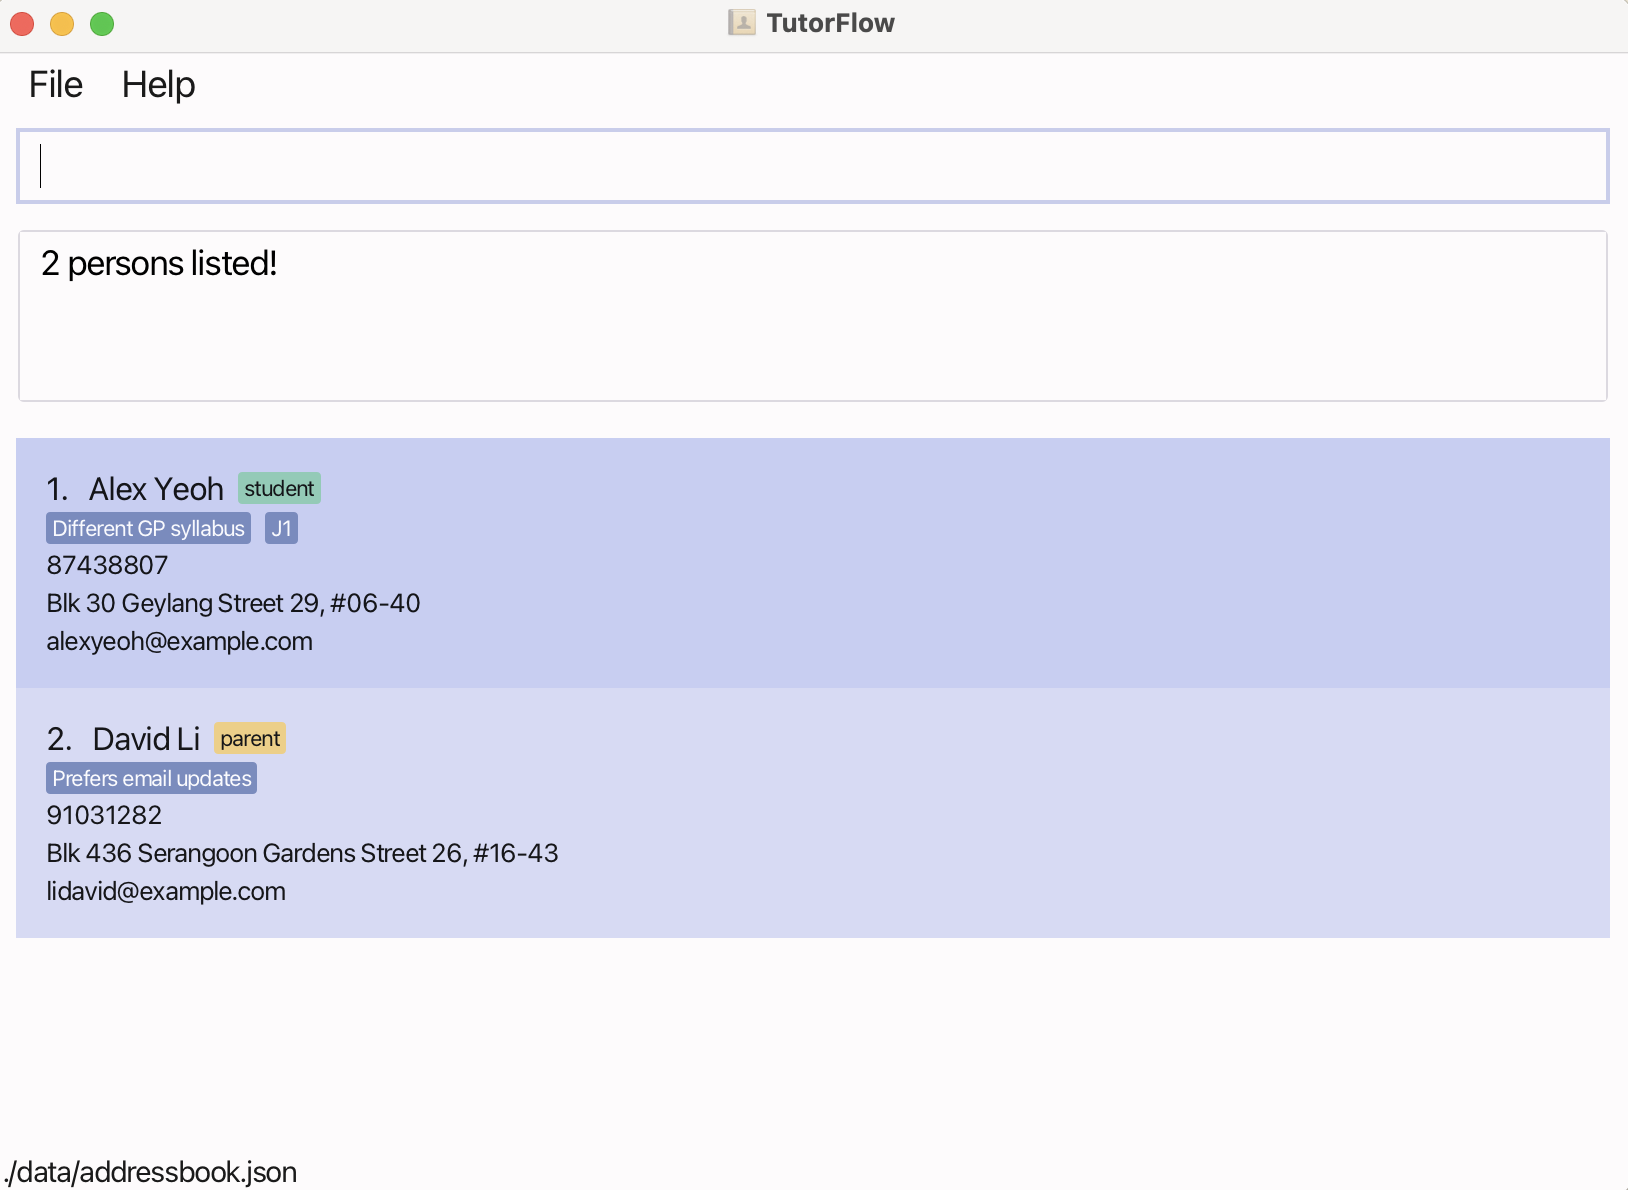
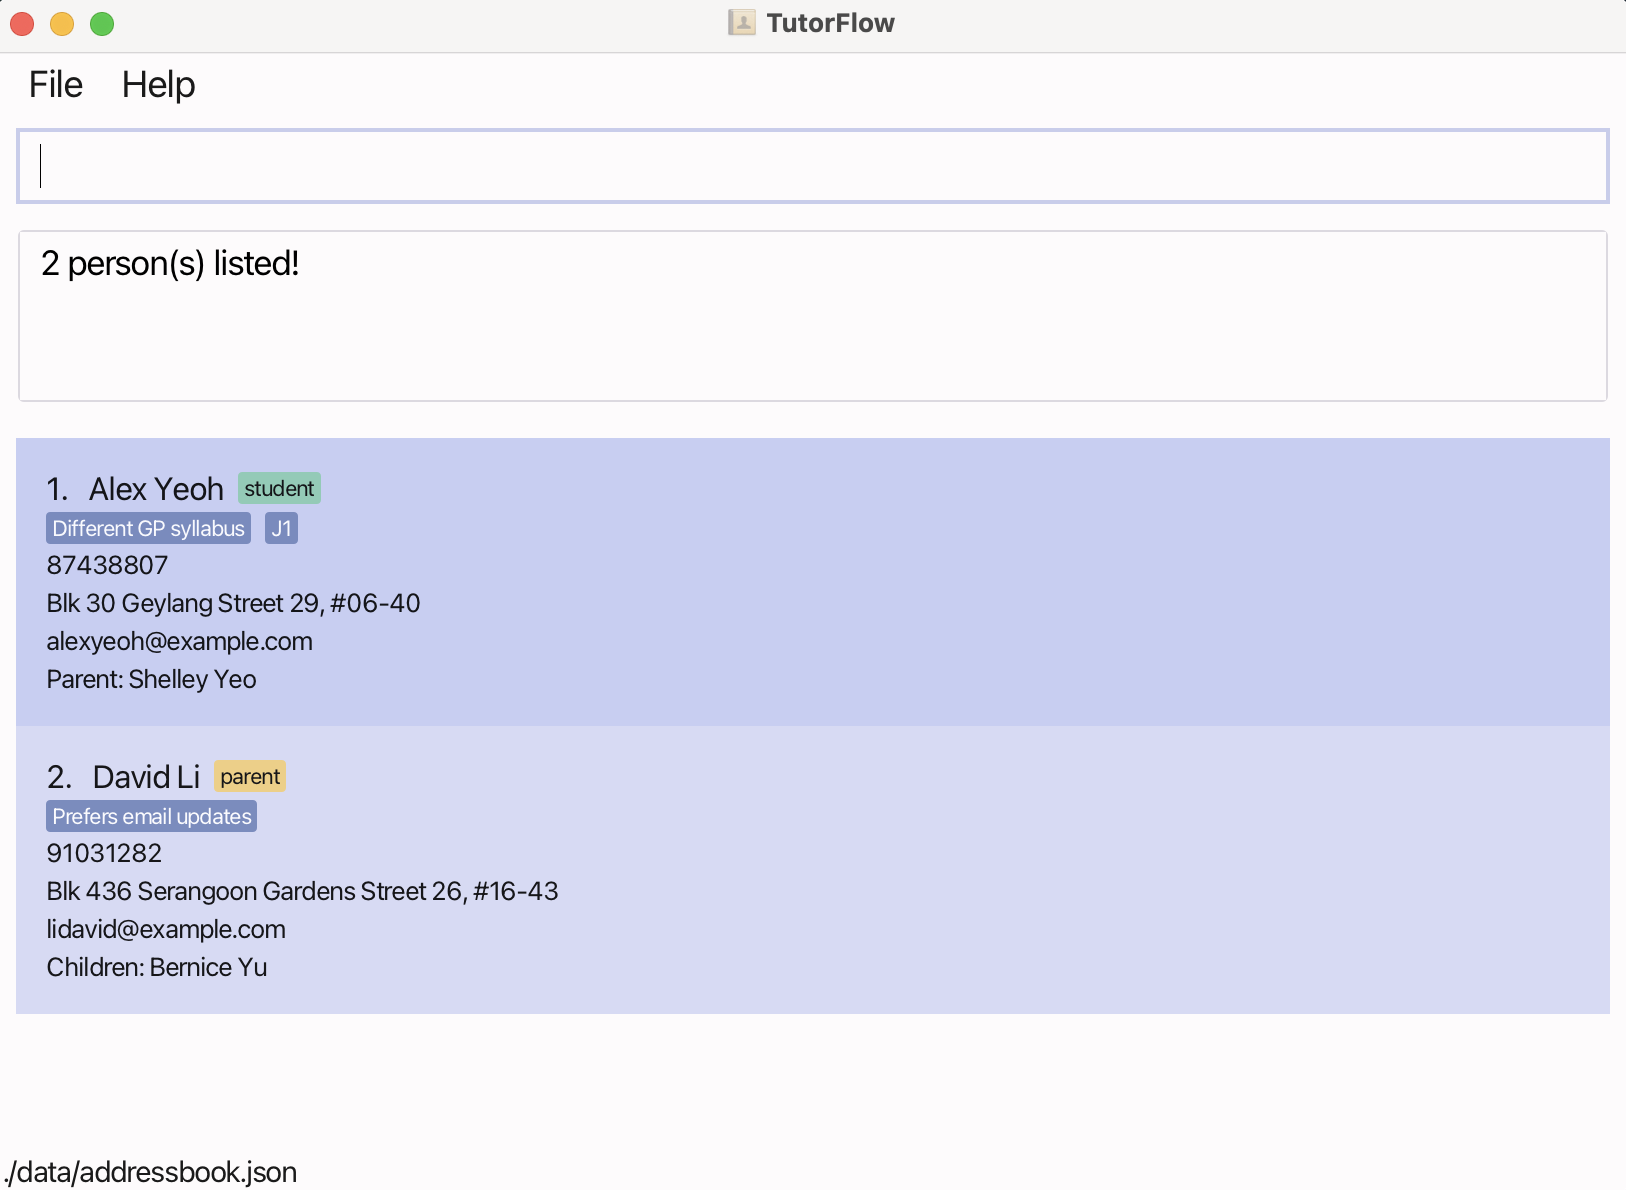
Modify minor GUI display messages for consistency

diff --git a/src/main/java/seedu/address/logic/ClassQueries.java b/src/main/java/seedu/address/logic/ClassQueries.java
@@ -1,16 +1,36 @@
 package seedu.address.logic;
 
-import seedu.address.model.Model;
-import seedu.address.model.person.*;
-import seedu.address.model.tuitionclass.*;
-
 import java.util.Comparator;
 import java.util.List;
 import java.util.Optional;
 
+import seedu.address.model.Model;
+import seedu.address.model.person.Name;
+import seedu.address.model.person.Student;
+import seedu.address.model.person.Tutor;
+import seedu.address.model.tuitionclass.TuitionClass;
+
+/**
+ * Utility class providing helper methods to query tutors, classes, and students
+ * from the model without duplicating logic across commands.
+ *
+ * <p>All methods are static and side-effect free — they do not modify the {@code Model}
+ * or its data. Instead, they perform read-only lookups on persons and tuition classes
+ * for use in higher-level commands such as {@code GetClassesCommand},
+ * {@code GetClassDetailsCommand}, and {@code GetStudentsCommand}.</p>
+ *
+ * <p>This class is intentionally non-instantiable.</p>
+ */
 public final class ClassQueries {
     private ClassQueries() {}
 
+    /**
+     * Finds the first tutor in the model with the given name.
+     *
+     * @param model The model containing all persons.
+     * @param name The name of the tutor to search for.
+     * @return An {@code Optional<Tutor>} containing the tutor if found, or an empty {@code Optional} otherwise.
+     */
     public static Optional<Tutor> findTutorByName(Model model, Name name) {
         return model.getAddressBook().getPersonList().stream()
                 .filter(p -> p instanceof Tutor)
@@ -19,12 +39,26 @@ public final class ClassQueries {
                 .findFirst();
     }
 
+    /**
+     * Retrieves all tuition classes taught by a specific tutor.
+     *
+     * @param model The model containing all tuition classes.
+     * @param tutor The tutor whose classes are to be retrieved.
+     * @return A list of {@code TuitionClass} objects associated with the given tutor.
+     */
     public static List<TuitionClass> getClassesByTutor(Model model, Tutor tutor) {
         return model.getTuitionClassList().stream()
                 .filter(tuitionClass -> tutor.getId().equals(tuitionClass.getTutorId()))
                 .toList();
     }
 
+    /**
+     * Retrieves all students enrolled in a given tuition class, sorted alphabetically by name.
+     *
+     * @param model The model containing all persons.
+     * @param tuitionClass The class whose students are to be retrieved.
+     * @return A list of {@code Student} objects enrolled in the specified class.
+     */
     public static List<Student> getStudentsInClass(Model model, TuitionClass tuitionClass) {
         return model.getAddressBook().getPersonList().stream()
                 .filter(t -> tuitionClass.getStudentIds().contains(t.getId()))

diff --git a/src/main/java/seedu/address/logic/commands/LinkClassCommand.java b/src/main/java/seedu/address/logic/commands/LinkClassCommand.java
@@ -42,6 +42,8 @@ public class LinkClassCommand extends Command {
     public static final String MESSAGE_PERSON_NOT_STUDENT_OR_TUTOR = "The person provided is not a student or a tutor.";
     public static final String MESSAGE_STUDENT_ALREADY_LINKED = "The student is already linked to a class.";
     public static final String MESSAGE_TUTOR_ALREADY_TEACHING = "The tutor is already assigned to this class.";
+    public static final String MESSAGE_CLASS_ALREADY_HAS_TUTOR =
+            "This class is already assigned to Tutor %s. Unlink before reassigning.";
 
     private final Day day;
     private final Time time;
@@ -101,8 +103,9 @@ public class LinkClassCommand extends Command {
         tuitionClass.addStudentId(student.getId());
         model.setPerson(student, student);
 
+        String timeString = tuitionClass.getTime().toString().substring(1) + "00";
         return new CommandResult(String.format(MESSAGE_LINK_STUDENT_SUCCESS,
-                Messages.format(student), tuitionClass.getDay(), tuitionClass.getTime()));
+                student.getName(), tuitionClass.getDay(), timeString));
     }
 
     /**
@@ -113,14 +116,25 @@ public class LinkClassCommand extends Command {
         PersonId currentTutorId = tuitionClass.getTutorId();
 
         // Check if the current tutor is not null AND if its ID matches the new tutor's ID.
-        if (currentTutorId != null && currentTutorId.equals(tutor.getId())) {
-            throw new CommandException(MESSAGE_TUTOR_ALREADY_TEACHING);
+        if (currentTutorId != null) {
+            if (currentTutorId.equals(tutor.getId())) {
+                throw new CommandException(MESSAGE_TUTOR_ALREADY_TEACHING);
+            }
+
+            String currentTutorName = model.getAddressBook().getPersonList().stream()
+                    .filter(p -> p.getId().equals(currentTutorId) && p instanceof Tutor)
+                    .map(p -> ((Tutor) p).getName().toString())
+                    .findFirst()
+                    .orElse("another tutor");
+
+            throw new CommandException(String.format(MESSAGE_CLASS_ALREADY_HAS_TUTOR, currentTutorName));
         }
         // Perform the assignment
         tuitionClass.setTutorId(tutor.getId());
 
+        String timeString = tuitionClass.getTime().toString().substring(1) + "00";
         return new CommandResult(String.format(MESSAGE_ASSIGN_TUTOR_SUCCESS,
-                Messages.format(tutor), tuitionClass.getDay(), tuitionClass.getTime()));
+                tutor.getName(), tuitionClass.getDay(), timeString));
     }
 
     @Override

diff --git a/src/test/java/seedu/address/logic/commands/GetStudentsCommandTest.java b/src/test/java/seedu/address/logic/commands/GetStudentsCommandTest.java
@@ -77,12 +77,12 @@ public class GetStudentsCommandTest {
     @Test
     public void execute_tutorExistsNoStudents_showsNoStudent() throws Exception {
         Tutor newFiona = (Tutor) new PersonBuilder(FIONA).build();
-        ((ModelManager) model).setPerson(FIONA, newFiona);
+        model.setPerson(FIONA, newFiona);
 
         TuitionClass fionaClass = new TuitionClassBuilder()
                 .withDay(Day.TUESDAY).withTime(Time.H14).withTutor(newFiona)
                 .build();
-        ((ModelManager) model).addTuitionClass(fionaClass);
+        model.addTuitionClass(fionaClass);
 
         GetStudentsCommand cmd = new GetStudentsCommand(FIONA.getName());
         CommandResult res = cmd.execute(model);
@@ -96,7 +96,7 @@ public class GetStudentsCommandTest {
     @Test
     public void execute_tutorExistsNoClasses_showsNoStudent() throws Exception {
         Tutor newFiona = (Tutor) new PersonBuilder(FIONA).build();
-        ((ModelManager) model).setPerson(FIONA, newFiona);
+        model.setPerson(FIONA, newFiona);
 
         GetStudentsCommand cmd = new GetStudentsCommand(FIONA.getName());
         CommandResult res = cmd.execute(model);

diff --git a/src/main/java/seedu/address/logic/commands/UnlinkClassCommand.java b/src/main/java/seedu/address/logic/commands/UnlinkClassCommand.java
@@ -105,8 +105,9 @@ public class UnlinkClassCommand extends Command {
         tuitionClass.removeStudentId(student.getId());
         model.setPerson(student, student);
 
+        String timeString = tuitionClass.getTime().toString().substring(1) + "00";
         return new CommandResult(String.format(MESSAGE_UNLINK_STUDENT_SUCCESS,
-                student.getName(), tuitionClass.getDay(), tuitionClass.getTime()));
+                student.getName(), tuitionClass.getDay(), timeString));
     }
 
     /**
@@ -120,8 +121,9 @@ public class UnlinkClassCommand extends Command {
         }
         tuitionClass.removeTutorId();
 
+        String timeString = tuitionClass.getTime().toString().substring(1) + "00";
         return new CommandResult(String.format(MESSAGE_UNASSIGN_TUTOR_SUCCESS,
-                tutor.getName(), tuitionClass.getDay(), tuitionClass.getTime()));
+                tutor.getName(), tuitionClass.getDay(), timeString));
     }
 
     @Override

diff --git a/src/main/java/seedu/address/logic/commands/CreateClassCommand.java b/src/main/java/seedu/address/logic/commands/CreateClassCommand.java
@@ -26,7 +26,7 @@ public class CreateClassCommand extends Command {
             + PREFIX_DAY + "monday "
             + PREFIX_TIME + "h14";
 
-    public static final String MESSAGE_SUCCESS = "New class created: %1$s";
+    public static final String MESSAGE_SUCCESS = "New class created: %1$s, %2$s";
     public static final String MESSAGE_DUPLICATE_CLASS = "This class time slot already exists";
 
     private final TuitionClass toAdd;
@@ -49,7 +49,8 @@ public class CreateClassCommand extends Command {
         }
 
         model.addTuitionClass(toAdd);
-        return new CommandResult(String.format(MESSAGE_SUCCESS, toAdd));
+        String timeString = toAdd.getTime().toString().substring(1) + "00";
+        return new CommandResult(String.format(MESSAGE_SUCCESS, toAdd.getDay(), timeString));
     }
 
 

diff --git a/src/main/java/seedu/address/logic/commands/GetStudentsCommand.java b/src/main/java/seedu/address/logic/commands/GetStudentsCommand.java
@@ -5,6 +5,10 @@ import static seedu.address.logic.ClassQueries.findTutorByName;
 import static seedu.address.logic.ClassQueries.getClassesByTutor;
 import static seedu.address.logic.ClassQueries.getStudentsInClass;
 
+import java.util.List;
+import java.util.Set;
+import java.util.stream.Collectors;
+
 import seedu.address.logic.commands.exceptions.CommandException;
 import seedu.address.model.Model;
 import seedu.address.model.person.Name;
@@ -12,10 +16,6 @@ import seedu.address.model.person.PersonId;
 import seedu.address.model.person.Student;
 import seedu.address.model.person.Tutor;
 import seedu.address.model.tuitionclass.TuitionClass;
-
-import java.util.List;
-import java.util.Set;
-import java.util.stream.Collectors;
 
 /**
  * Retrieves all students of a specified tutor in the address book.

diff --git a/src/test/java/seedu/address/logic/commands/LinkParentCommandTest.java b/src/test/java/seedu/address/logic/commands/LinkParentCommandTest.java
@@ -12,7 +12,6 @@ import static seedu.address.testutil.TypicalPersons.getTypicalAddressBook;
 
 import org.junit.jupiter.api.Test;
 
-import seedu.address.logic.Messages;
 import seedu.address.model.Model;
 import seedu.address.model.ModelManager;
 import seedu.address.model.UserPrefs;
@@ -35,7 +34,7 @@ public class LinkParentCommandTest {
         LinkParentCommand linkParentCommand = new LinkParentCommand(studentToLink.getName(), parentToLink.getName());
 
         String expectedMessage = String.format(LinkParentCommand.MESSAGE_LINK_SUCCESS,
-                Messages.format(studentToLink), Messages.format(parentToLink));
+                studentToLink.getName(), parentToLink.getName());
 
         Model expectedModel = new ModelManager(model.getAddressBook(), new UserPrefs());
 

diff --git a/src/main/java/seedu/address/logic/Messages.java b/src/main/java/seedu/address/logic/Messages.java
@@ -16,7 +16,7 @@ public class Messages {
     public static final String MESSAGE_UNKNOWN_COMMAND = "Unknown command";
     public static final String MESSAGE_INVALID_COMMAND_FORMAT = "Invalid command format! \n%1$s";
     public static final String MESSAGE_INVALID_PERSON_DISPLAYED_INDEX = "The person index provided is invalid";
-    public static final String MESSAGE_PERSONS_LISTED_OVERVIEW = "%1$d persons listed!";
+    public static final String MESSAGE_PERSONS_LISTED_OVERVIEW = "%1$d person(s) listed!";
     public static final String MESSAGE_DUPLICATE_FIELDS =
                 "Multiple values specified for the following single-valued field(s): ";
     public static final String MESSAGE_PERSON_NOT_FOUND = "The person with the name '%s' could not be found.";

diff --git a/src/main/java/seedu/address/logic/commands/LinkParentCommand.java b/src/main/java/seedu/address/logic/commands/LinkParentCommand.java
@@ -6,7 +6,6 @@ import static seedu.address.logic.parser.CliSyntax.PREFIX_NAME;
 import java.util.List;
 import java.util.Optional;
 
-import seedu.address.logic.Messages;
 import seedu.address.logic.commands.exceptions.CommandException;
 import seedu.address.model.Model;
 import seedu.address.model.person.Name;
@@ -82,7 +81,7 @@ public class LinkParentCommand extends Command {
         model.setPerson(parentOpt.get(), parentToLink);
 
         return new CommandResult(String.format(MESSAGE_LINK_SUCCESS,
-                Messages.format(studentToLink), Messages.format(parentToLink)));
+                studentToLink.getName(), parentToLink.getName()));
     }
 
     @Override

diff --git a/src/test/java/seedu/address/logic/commands/UnlinkClassCommandTest.java b/src/test/java/seedu/address/logic/commands/UnlinkClassCommandTest.java
@@ -83,8 +83,9 @@ public class UnlinkClassCommandTest {
         unlinkedStudent.clearTuitionClass();
         expectedModel.setPerson(linkedStudent, unlinkedStudent);
 
+        String timeString = classToUnlink.getTime().toString().substring(1) + "00";
         String expectedMessage = String.format(UnlinkClassCommand.MESSAGE_UNLINK_STUDENT_SUCCESS,
-                unlinkedStudent.getName(), classToUnlink.getDay(), classToUnlink.getTime());
+                unlinkedStudent.getName(), classToUnlink.getDay(), timeString);
 
         UnlinkClassCommand command = new UnlinkClassCommand(classToUnlink.getDay(), classToUnlink.getTime(),
                 linkedStudent.getName());

diff --git a/src/test/java/seedu/address/logic/commands/CreateClassCommandTest.java b/src/test/java/seedu/address/logic/commands/CreateClassCommandTest.java
@@ -29,7 +29,9 @@ public class CreateClassCommandTest {
         expectedModel.addTuitionClass(validClass);
 
         CreateClassCommand command = new CreateClassCommand(validClass.getDay(), validClass.getTime());
-        String expectedMessage = String.format(CreateClassCommand.MESSAGE_SUCCESS, validClass);
+
+        String timeString = validClass.getTime().toString().substring(1) + "00";
+        String expectedMessage = String.format(CreateClassCommand.MESSAGE_SUCCESS, validClass.getDay(), timeString);
 
         assertCommandSuccess(command, model, expectedMessage, expectedModel);
     }

diff --git a/src/main/java/seedu/address/logic/commands/GetClassesCommand.java b/src/main/java/seedu/address/logic/commands/GetClassesCommand.java
@@ -9,8 +9,6 @@ import java.util.List;
 import seedu.address.logic.commands.exceptions.CommandException;
 import seedu.address.model.Model;
 import seedu.address.model.person.Name;
-import seedu.address.model.person.Person;
-import seedu.address.model.person.PersonId;
 import seedu.address.model.person.Tutor;
 import seedu.address.model.tuitionclass.Time;
 import seedu.address.model.tuitionclass.TuitionClass;
